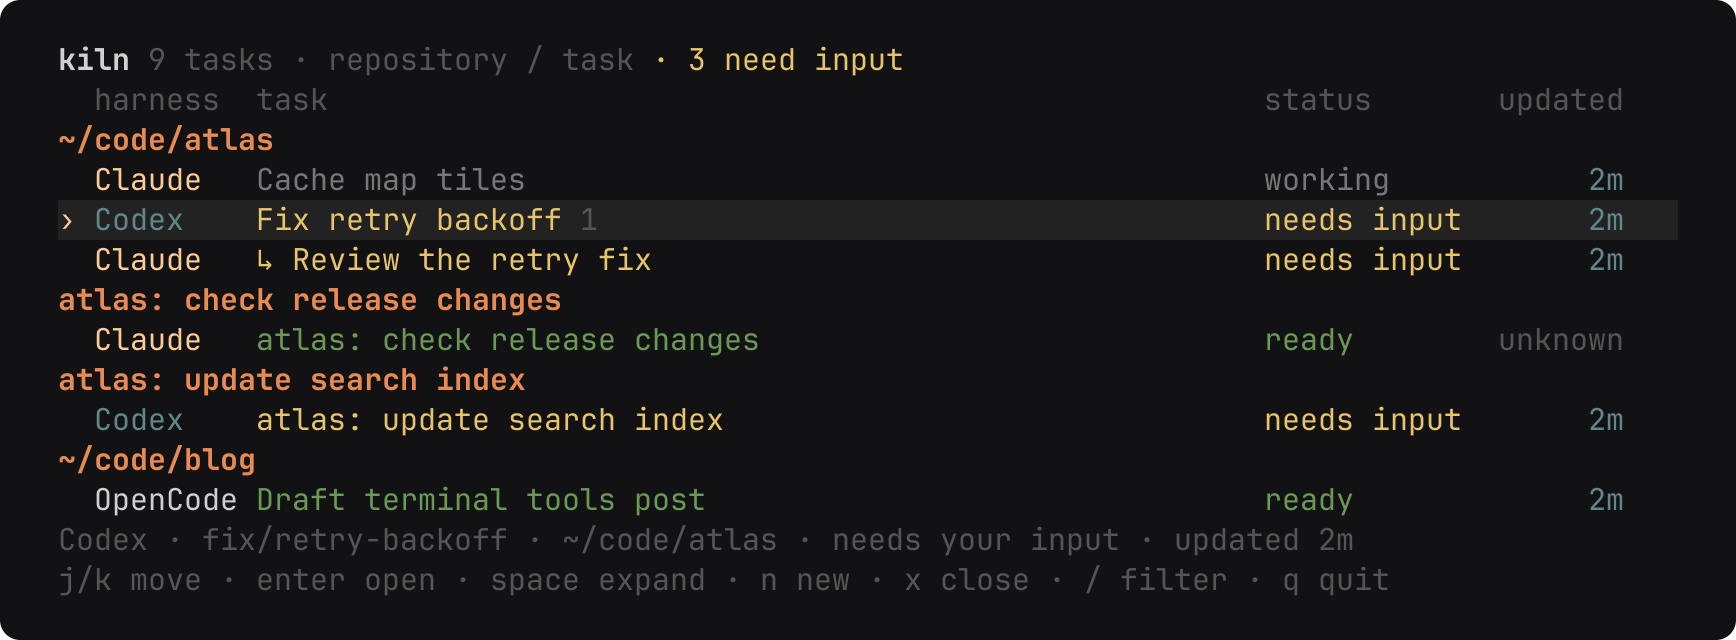
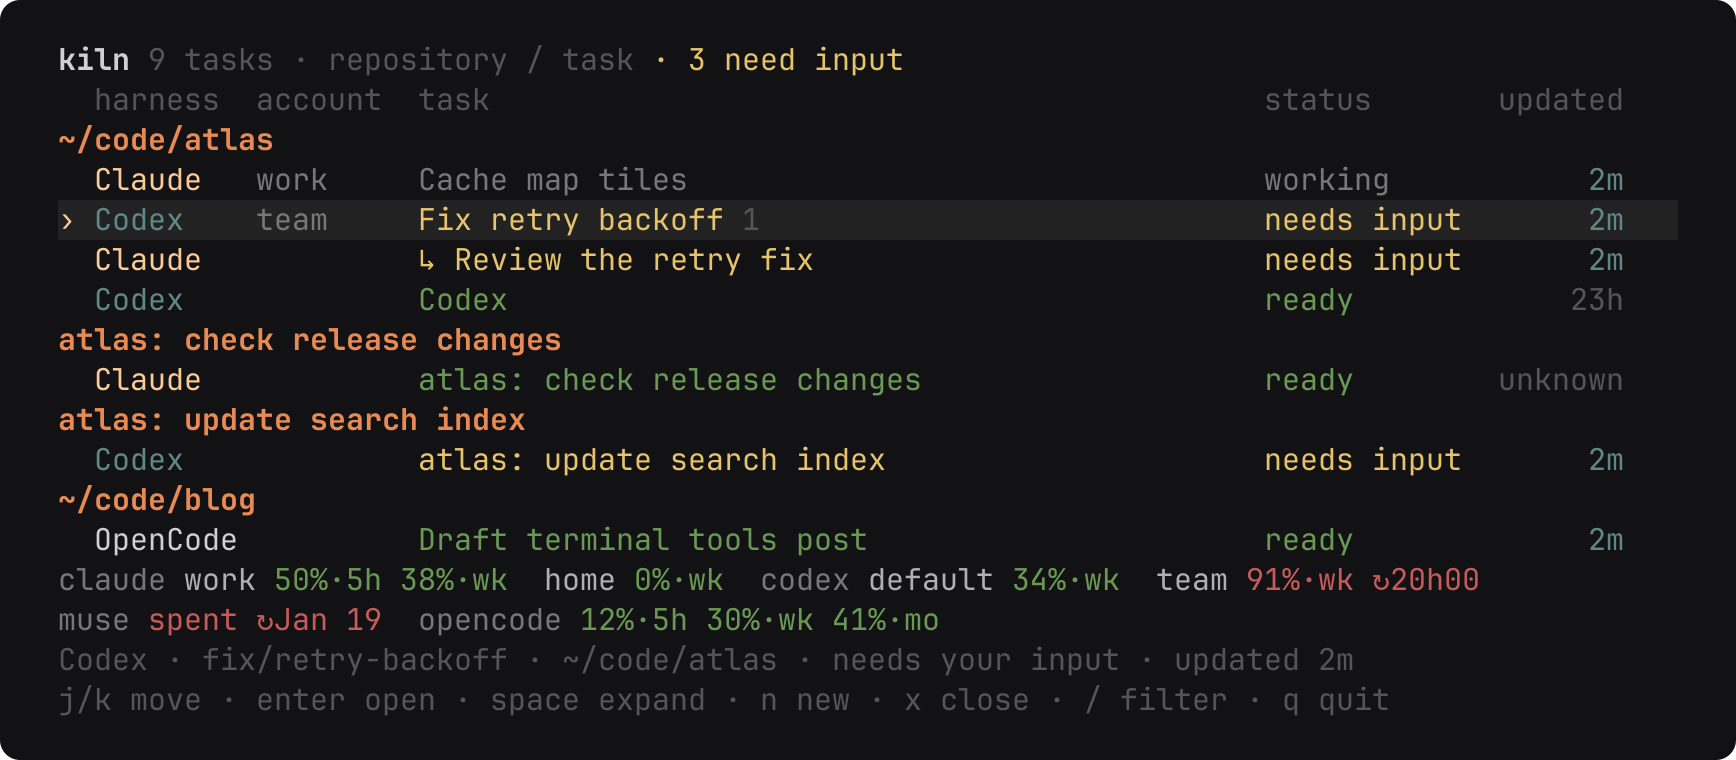
fix(screenshots): render the demo in a fixed home so the shots never depend on this machine
The demo's paths lived under the real home, so grouping and ordering depended on
which directories and repositories existed. The script now runs in a scratch home
holding the demo repositories (atlas with a linked worktree), and the list shot
shows the per-account footer and the account column.

Claude-Session: https://claude.ai/code/session_01KXatHHdTCan741duQs1aSG

diff --git a/scripts/screenshots.tsx b/scripts/screenshots.tsx
@@ -9,13 +9,14 @@
  * The fonts are JetBrains Mono where installed, else any monospace.
  */
 
+import "./demo-home";
+
 import { mkdtempSync, readFileSync, rmSync } from "node:fs";
 import { homedir, tmpdir } from "node:os";
 import { join } from "node:path";
 import type { CapturedFrame, RGBA } from "@opentui/core";
 import { testRender } from "@opentui/react/test-utils";
 import { act, type ReactNode } from "react";
-
 import { App } from "../src/app";
 import type { DashboardRow, DashboardSnapshot, PullRequest } from "../src/dashboard";
 import type { Ledger } from "../src/edits";
@@ -27,7 +28,7 @@ import type { Skill } from "../src/skills";
 import { SkillsView } from "../src/skills-view";
 
 const cols = 92;
-const rows = 15;
+const rows = 17;
 const cell = { width: 9, height: 20 };
 const pad = 20;
 const background = "#121113";
@@ -58,9 +59,21 @@ const demoQuota: QuotaAccount[] = [
     source: "mclaude",
   },
   { agent: "claude", name: "home", disabled: false, windows: [window("wk", 0, 90)], source: "mclaude" },
-  { agent: "codex", disabled: false, windows: [window("wk", 34, 120)], source: "codex-daemon" },
-  { agent: "muse", disabled: false, windows: [], source: "none" },
-  { agent: "opencode", disabled: false, windows: [], source: "none" },
+  { agent: "codex", name: "default", disabled: false, windows: [window("wk", 34, 120)], source: "codex-daemon" },
+  { agent: "codex", name: "team", disabled: false, windows: [window("wk", 91, 20)], source: "codex-daemon" },
+  {
+    agent: "muse",
+    disabled: false,
+    windows: [],
+    spentUntil: Date.now() + 4 * 86_400_000,
+    source: "none",
+  },
+  {
+    agent: "opencode",
+    disabled: false,
+    windows: [window("5h", 12, 2), window("wk", 30, 60), window("mo", 41, 300)],
+    source: "opencode-go",
+  },
 ];
 
 const demo: Session[] = [
@@ -68,6 +81,7 @@ const demo: Session[] = [
     pid: 101,
     title: "Cache map tiles",
     agent: "claude",
+    account: "work",
     cwd: code("atlas"),
     lastActiveAt: minutes(2),
     startedAt: minutes(42),
@@ -79,6 +93,7 @@ const demo: Session[] = [
     pid: 102,
     title: "Fix retry backoff",
     agent: "codex",
+    account: "team",
     cwd: code("atlas"),
     lastActiveAt: minutes(2),
     startedAt: minutes(18),
@@ -123,7 +138,8 @@ const demo: Session[] = [
   {
     agent: "codex",
     cwd: join(homedir(), ".worktrees", "atlas", "search-index"),
-    lastActiveAt: minutes(2),
+    // The oldest atlas session, so it sorts last in its group and the list shots open on the tile-cache row.
+    lastActiveAt: minutes(1400),
     startedAt: minutes(1500),
     activity: "idle",
     branch: "feat/search-index",

diff --git a/scripts/demo-home.ts b/scripts/demo-home.ts
@@ -1,0 +1,61 @@
+/**
+ * A home directory the demo sessions' paths live in, so the shots never depend on this machine's home or repositories.
+ * Import it before anything that reads the home: it points HOME at a scratch directory holding the repositories the
+ * demo sessions work in, with `atlas` also checked out as a linked worktree, which is how kiln groups it under `atlas`.
+ */
+import { mkdirSync, mkdtempSync, rmSync } from "node:fs";
+import { tmpdir } from "node:os";
+import { join } from "node:path";
+
+if (Bun.env.KILN_DEMO_HOME) {
+  // This is the child: its HOME is already the demo home.
+} else {
+  const demoHome = mkdtempSync(join(tmpdir(), "kiln-demo-home-"));
+
+  const git = (cwd: string, ...args: string[]) => {
+    const run = Bun.spawnSync(
+      [
+        "git",
+        "-c",
+        "user.name=demo",
+        "-c",
+        "user.email=demo@example.com",
+        "-c",
+        "commit.gpgsign=false",
+        "-c",
+        "init.defaultBranch=main",
+        ...args,
+      ],
+      { cwd, stdout: "ignore", stderr: "pipe", env: { PATH: Bun.env.PATH ?? "", HOME: demoHome } },
+    );
+    if (run.exitCode !== 0) throw new Error(`git ${args.join(" ")}: ${run.stderr.toString()}`);
+  };
+
+  for (const repository of ["atlas", "blog", "dotfiles", "kiln"]) {
+    const directory = join(demoHome, "code", repository);
+    mkdirSync(directory, { recursive: true });
+    git(directory, "init", "-q");
+    git(directory, "commit", "-q", "--allow-empty", "-m", "init");
+  }
+  mkdirSync(join(demoHome, ".worktrees", "atlas"), { recursive: true });
+  git(
+    join(demoHome, "code", "atlas"),
+    "worktree",
+    "add",
+    "-q",
+    "-b",
+    "feat/search-index",
+    join(demoHome, ".worktrees", "atlas", "search-index"),
+  );
+
+  // Bun reads the home directory once at startup, so the script runs again as a child that starts with it. The parent
+  // only waits and cleans up; the child is the run that draws the shots.
+  const child = Bun.spawnSync([process.execPath, ...process.argv.slice(1)], {
+    env: { ...Bun.env, HOME: demoHome, KILN_DEMO_HOME: demoHome },
+    stdin: "inherit",
+    stdout: "inherit",
+    stderr: "inherit",
+  });
+  rmSync(demoHome, { recursive: true, force: true });
+  process.exit(child.exitCode ?? 1);
+}
